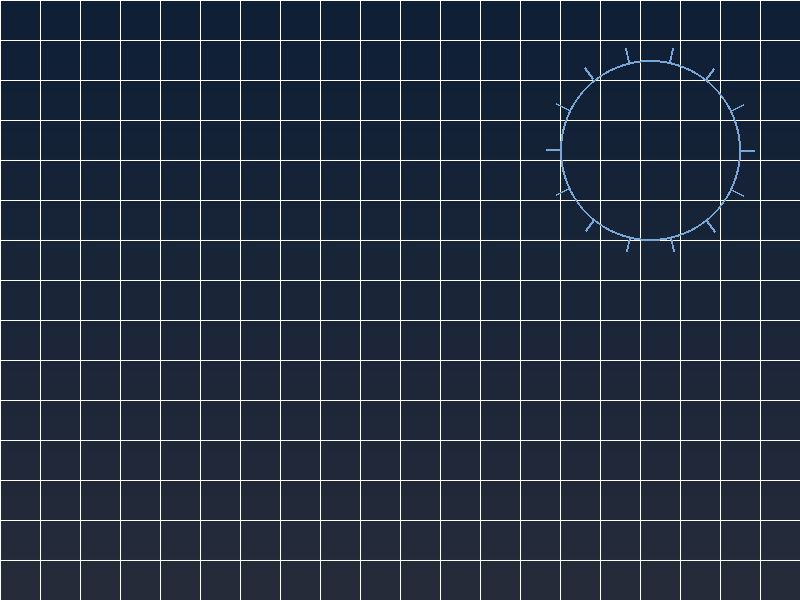
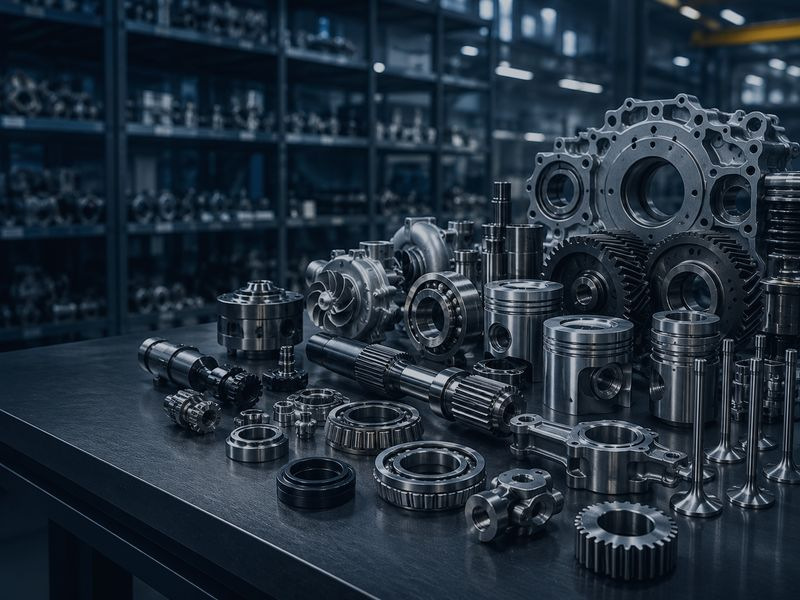
Add files via upload

diff --git a/src/components/sections/partner-strip.tsx b/src/components/sections/partner-strip.tsx
@@ -1,18 +1,18 @@
+import Image from "next/image";
 import { partners } from "@/content/nav";
 import { Reveal } from "@/components/ui/reveal";
 
 /**
  * Partner / supplier brand strip.
- * Displayed per confirmed reseller status. Brand names are shown as text on
- * light tiles until official, licensed logo assets are supplied — swap the
- * <span> for an <Image> once logos are on file (see IMAGE_SOURCES.md).
- * Original brand colours belong on light tiles since the site is dark.
+ * Displayed per confirmed reseller status. Where an official logo file is on
+ * hand it is shown on a light tile; the rest fall back to the brand name as
+ * text until their logos are supplied (see IMAGE_SOURCES.md).
  */
 export function PartnerStrip() {
   return (
     <section className="container-x py-14" aria-label="Brands we source and supply">
       <Reveal>
-        <p className="eyebrow mb-6 text-center">Brands we source & supply</p>
+        <p className="eyebrow mb-6 text-center">Brands we source &amp; supply</p>
         <ul className="flex flex-wrap items-center justify-center gap-3 sm:gap-4">
           {partners.map((p) => (
             <li key={p.name}>
@@ -20,12 +20,22 @@ export function PartnerStrip() {
                 href={p.url}
                 target="_blank"
                 rel="noopener noreferrer"
-                className="flex h-16 w-32 items-center justify-center rounded-lg bg-white/90 px-4 grayscale transition-all duration-300 hover:grayscale-0 hover:bg-white"
+                className="flex h-16 w-32 items-center justify-center rounded-lg bg-white/90 px-4 transition-all duration-300 hover:bg-white"
                 aria-label={`${p.name} (opens in a new tab)`}
               >
-                <span className="font-display text-lg font-bold tracking-tight text-navy">
-                  {p.name}
-                </span>
+                {p.logo ? (
+                  <Image
+                    src={p.logo}
+                    alt={p.name}
+                    width={110}
+                    height={32}
+                    className="h-8 w-auto object-contain"
+                  />
+                ) : (
+                  <span className="font-display text-lg font-bold tracking-tight text-navy">
+                    {p.name}
+                  </span>
+                )}
               </a>
             </li>
           ))}

diff --git a/src/content/catalog.ts b/src/content/catalog.ts
@@ -192,21 +192,24 @@ export const productCategories: ProductCategory[] = [
 export type Industry = {
   slug: string;
   name: string;
+  /** PNG icon under /images/industries, or a lucide icon name for the 4 without a supplied icon. */
+  icon?: string;
+  lucide?: "Factory" | "Droplets" | "HeartPulse" | "Briefcase";
 };
 
 export const industries: Industry[] = [
-  { slug: "aerospace", name: "Aerospace" },
-  { slug: "automotive", name: "Automotive" },
-  { slug: "oil-and-gas", name: "Oil & Gas" },
-  { slug: "energy-power-generation", name: "Energy & Power Generation" },
-  { slug: "medical-healthcare", name: "Medical & Healthcare" },
-  { slug: "agriculture-food", name: "Agriculture & Food Production" },
-  { slug: "manufacturing-fabrication", name: "Manufacturing & Fabrication" },
-  { slug: "engineering-contracting", name: "Engineering & Contracting" },
-  { slug: "construction-materials", name: "Construction Materials" },
-  { slug: "industrial-plants", name: "Industrial Plants" },
-  { slug: "trading-companies", name: "Trading Companies" },
-  { slug: "government-infrastructure", name: "Government & Infrastructure" },
+  { slug: "aerospace", name: "Aerospace", icon: "aerospace" },
+  { slug: "automotive", name: "Automotive", icon: "automotive" },
+  { slug: "oil-and-gas", name: "Oil & Gas", lucide: "Droplets" },
+  { slug: "energy-power-generation", name: "Energy & Power Generation", icon: "energy-power-generation" },
+  { slug: "medical-healthcare", name: "Medical & Healthcare", lucide: "HeartPulse" },
+  { slug: "agriculture-food", name: "Agriculture & Food Production", icon: "agriculture-food" },
+  { slug: "manufacturing-fabrication", name: "Manufacturing & Fabrication", lucide: "Factory" },
+  { slug: "engineering-contracting", name: "Engineering & Contracting", icon: "engineering-contracting" },
+  { slug: "construction-materials", name: "Construction Materials", icon: "construction-materials" },
+  { slug: "industrial-plants", name: "Industrial Plants", icon: "industrial-plants" },
+  { slug: "trading-companies", name: "Trading Companies", lucide: "Briefcase" },
+  { slug: "government-infrastructure", name: "Government & Infrastructure", icon: "government-infrastructure" },
 ];
 
 export type FactoryStage = {

diff --git a/src/components/ui/primitives.tsx b/src/components/ui/primitives.tsx
@@ -1,5 +1,6 @@
 import Link from "next/link";
-import { ArrowRight, ChevronRight } from "lucide-react";
+import { ArrowRight, ChevronRight, Factory, Droplets, HeartPulse, Briefcase } from "lucide-react";
+import Image from "next/image";
 import { cn } from "@/lib/utils";
 import { Reveal } from "./reveal";
 
@@ -76,12 +77,37 @@ export function ProductCard({
   );
 }
 
-/** Compact industry chip/card. */
-export function IndustryCard({ name, delay = 0 }: { name: string; delay?: number }) {
+const lucideMap = { Factory, Droplets, HeartPulse, Briefcase } as const;
+
+/** Industry card with a sector icon. Accepts a PNG icon slug or a lucide name. */
+export function IndustryCard({
+  name,
+  icon,
+  lucide,
+  delay = 0,
+}: {
+  name: string;
+  icon?: string;
+  lucide?: keyof typeof lucideMap;
+  delay?: number;
+}) {
+  const LucideIcon = lucide ? lucideMap[lucide] : null;
   return (
     <Reveal delay={delay} as="li">
-      <div className="glass-light flex items-center gap-3 rounded-lg px-4 py-3.5">
-        <span className="h-1.5 w-1.5 shrink-0 rounded-full bg-accent-400" aria-hidden="true" />
+      <div className="glass-light flex flex-col items-center gap-3 rounded-xl px-4 py-6 text-center transition-all duration-300 hover:-translate-y-1 hover:border-accent-400/40">
+        <span className="flex h-14 w-14 items-center justify-center rounded-full bg-accent-500/10 ring-1 ring-accent-400/20">
+          {icon ? (
+            <Image
+              src={`/images/industries/${icon}.png`}
+              alt=""
+              width={32}
+              height={32}
+              className="h-8 w-8 object-contain"
+            />
+          ) : LucideIcon ? (
+            <LucideIcon className="h-7 w-7 text-accent-400" aria-hidden="true" strokeWidth={1.6} />
+          ) : null}
+        </span>
         <span className="text-sm font-medium text-slate-100">{name}</span>
       </div>
     </Reveal>

diff --git a/src/content/nav.ts b/src/content/nav.ts
@@ -23,13 +23,13 @@ export const footerLegal: NavItem[] = [
  * Logo files are placeholders until official brand assets are supplied —
  * see IMAGE_SOURCES.md. Names shown as text where no licensed logo is on file.
  */
-export type Partner = { name: string; url: string };
+export type Partner = { name: string; url: string; logo?: string };
 
 export const partners: Partner[] = [
   { name: "EXAKT", url: "https://www.exakt.de/" },
   { name: "Vibra", url: "https://www.vibra.co.jp/" },
   { name: "DRATEC", url: "https://dratec.de/" },
-  { name: "Guschky", url: "https://www.guschky.com/" },
+  { name: "Guschky", url: "https://www.guschky.com/", logo: "/images/partner-guschky.svg" },
   { name: "Zenith", url: "https://www.zenith.de/" },
   { name: "QGM", url: "https://www.qgmmould.com/" },
 ];

diff --git a/src/app/page.tsx b/src/app/page.tsx
@@ -93,7 +93,7 @@ export default function HomePage() {
           />
           <ul className="mt-10 grid grid-cols-2 gap-3 sm:grid-cols-3 lg:grid-cols-4">
             {industries.map((ind, i) => (
-              <IndustryCard key={ind.slug} name={ind.name} delay={(i % 4) * 0.04} />
+              <IndustryCard key={ind.slug} name={ind.name} icon={ind.icon} lucide={ind.lucide} delay={(i % 4) * 0.04} />
             ))}
           </ul>
         </div>

diff --git a/src/app/industries/page.tsx b/src/app/industries/page.tsx
@@ -25,7 +25,7 @@ export default function IndustriesPage() {
         />
         <ul className="mt-10 grid grid-cols-2 gap-3 sm:grid-cols-3 lg:grid-cols-4">
           {industries.map((ind, i) => (
-            <IndustryCard key={ind.slug} name={ind.name} delay={(i % 4) * 0.04} />
+            <IndustryCard key={ind.slug} name={ind.name} icon={ind.icon} lucide={ind.lucide} delay={(i % 4) * 0.04} />
           ))}
         </ul>
 
